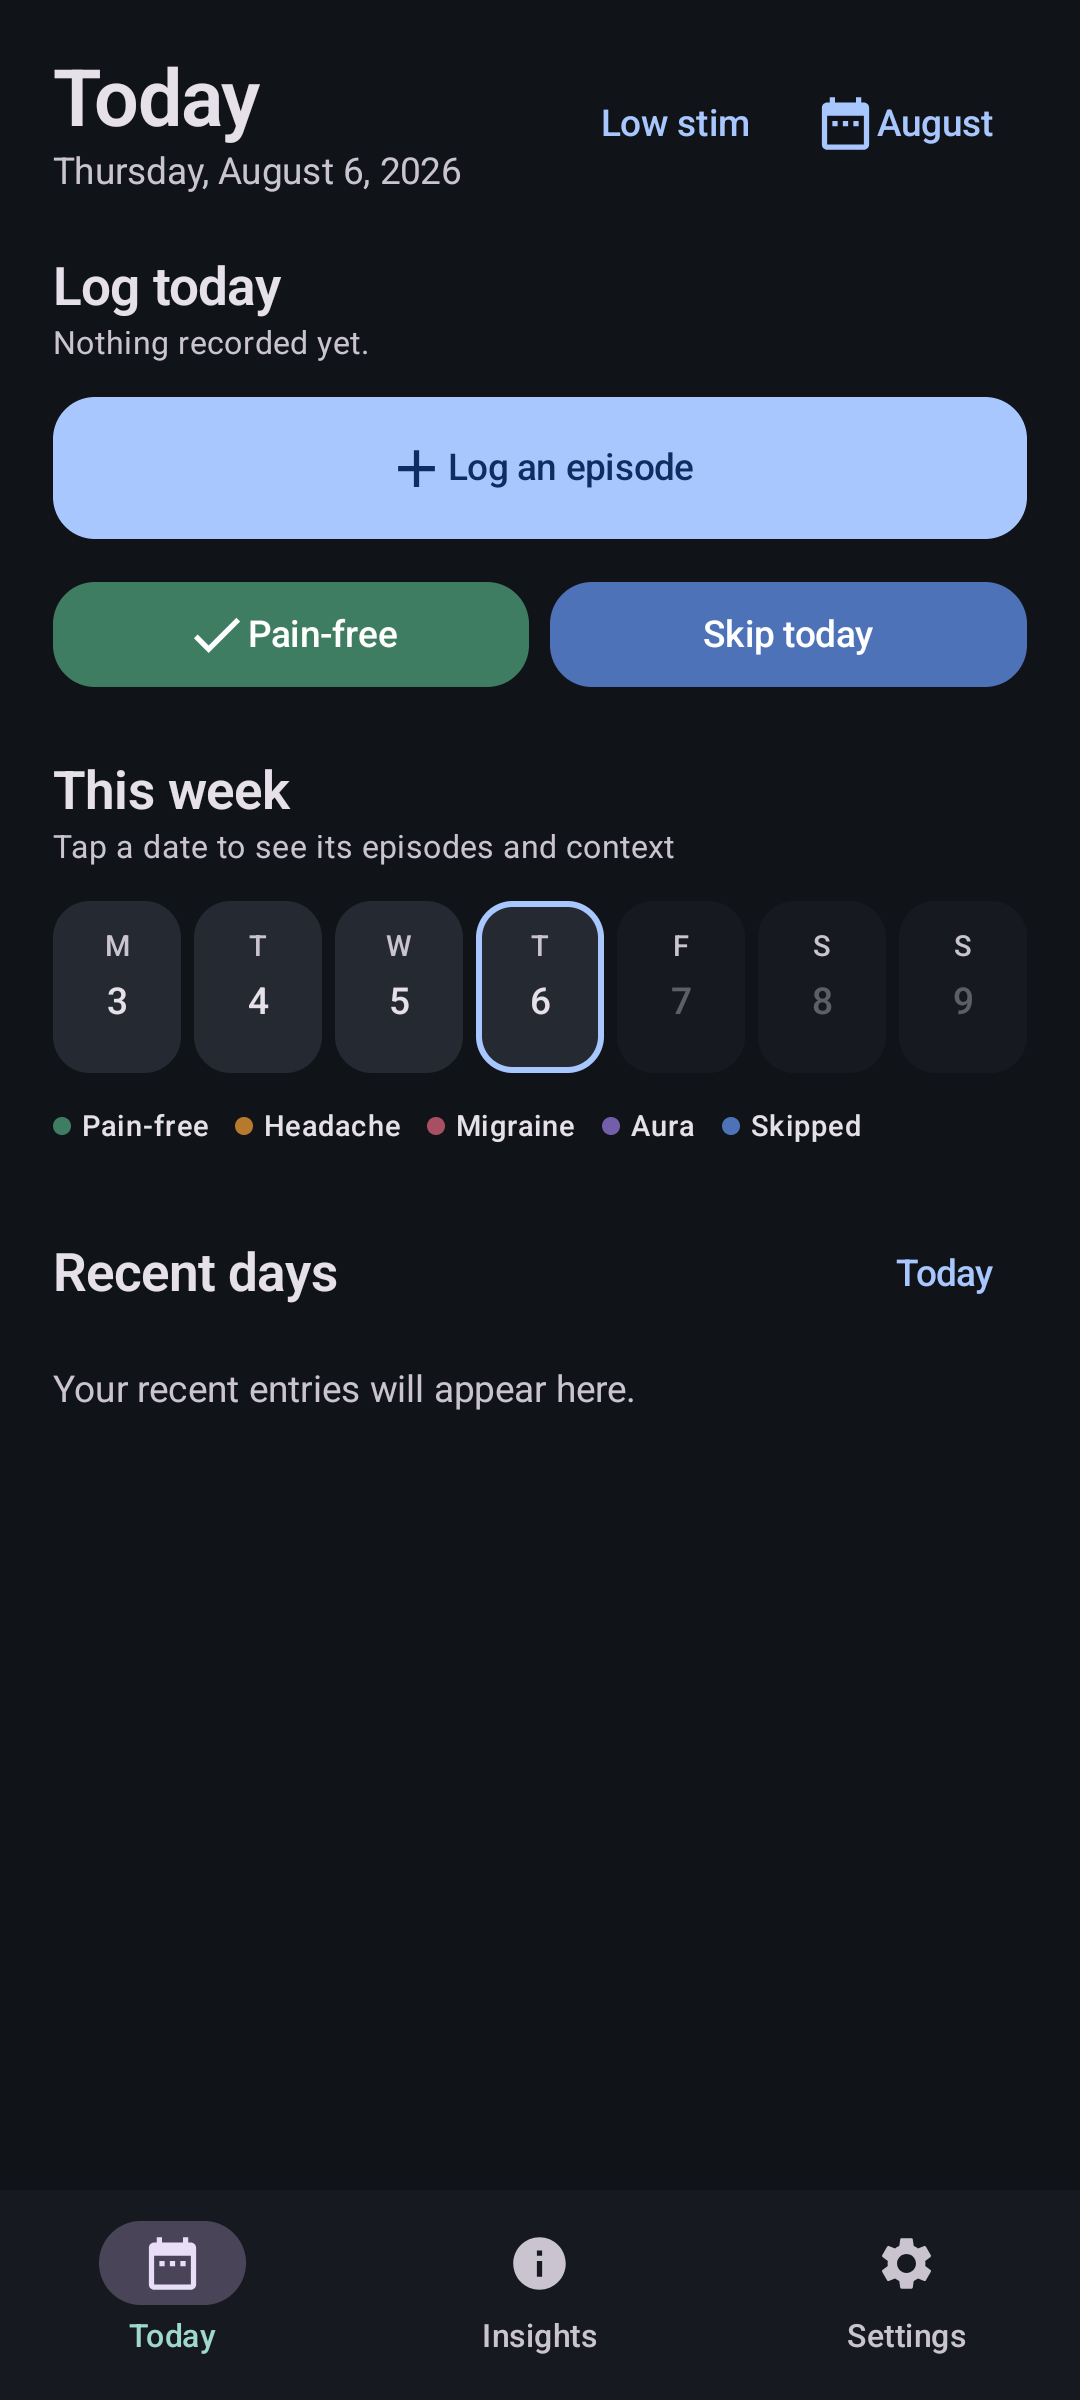
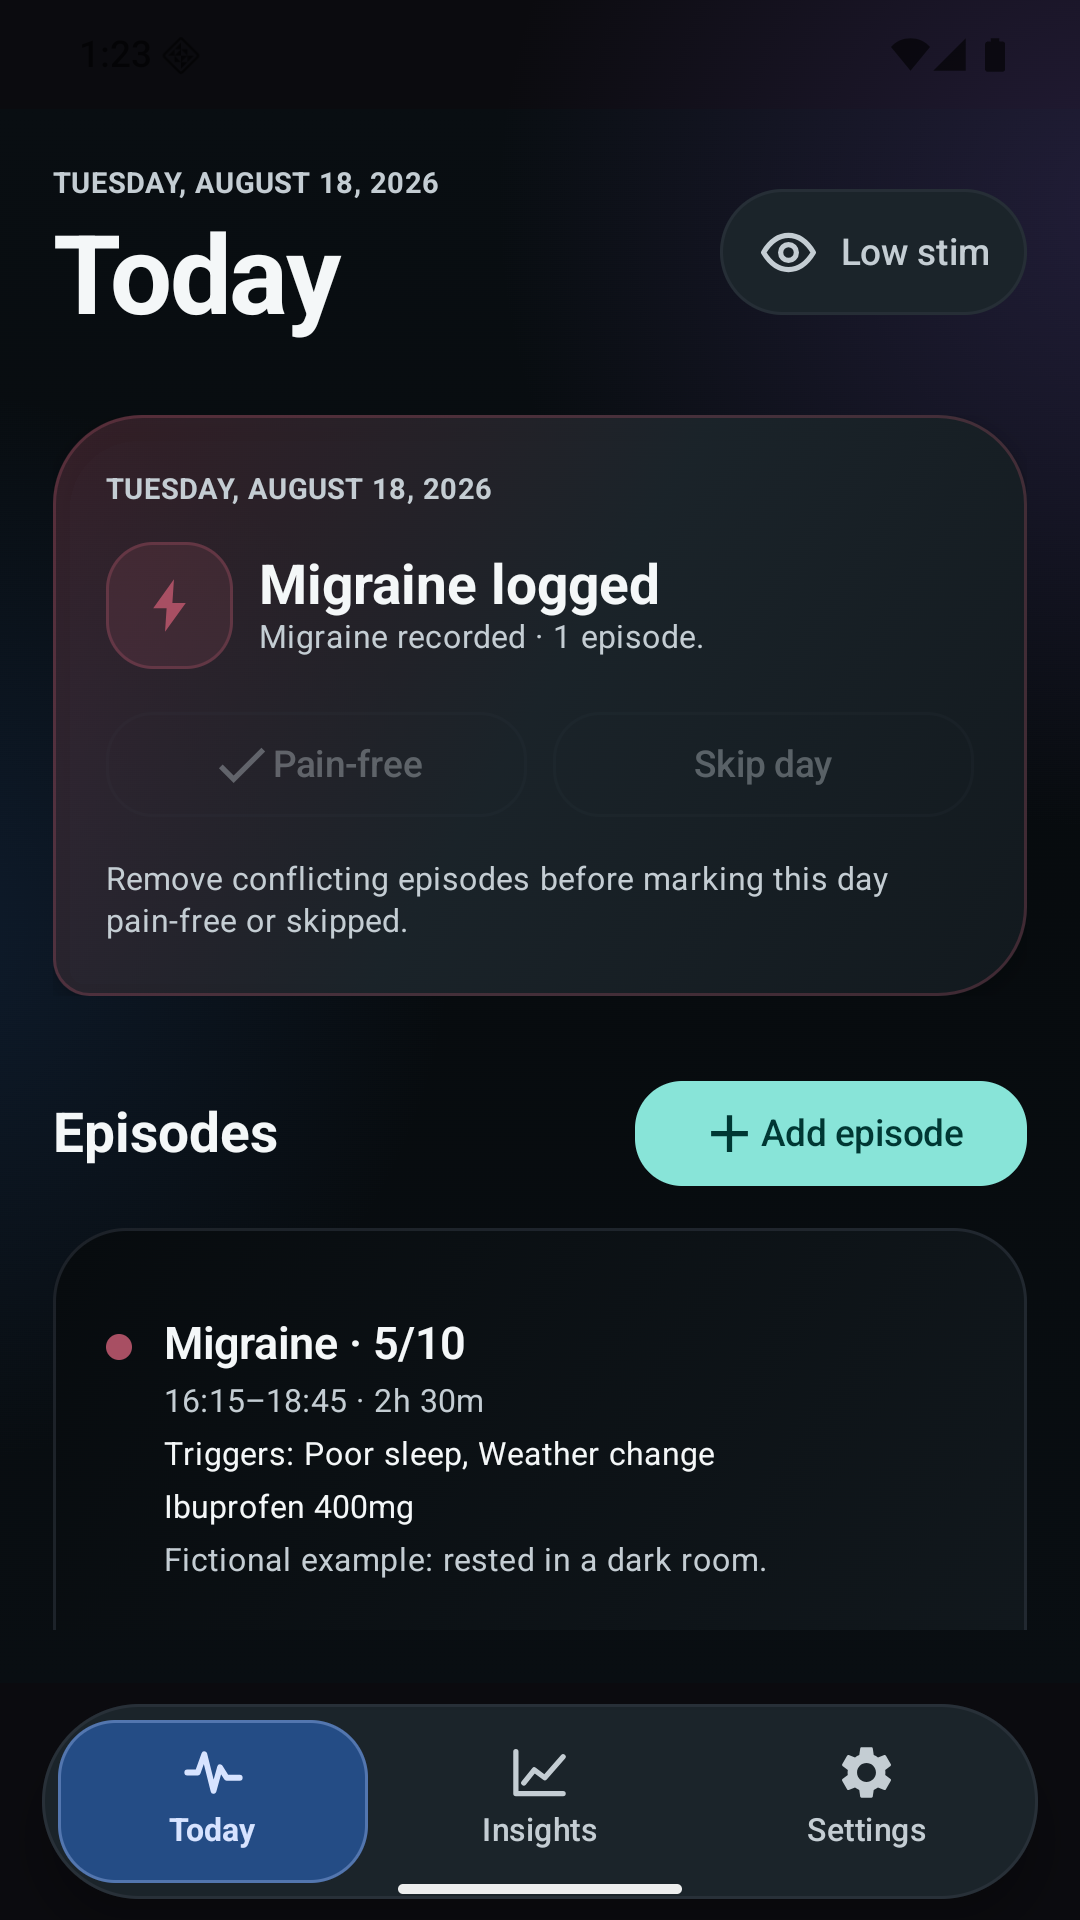
site: refresh Android walkthrough

diff --git a/site/in-action/index.html b/site/in-action/index.html
@@ -3,7 +3,7 @@
 <head>
   <meta charset="utf-8">
   <meta name="viewport" content="width=device-width, initial-scale=1">
-  <meta name="description" content="See how Headmon makes it quick to log headache and migraine episodes, add context and notice patterns on Android and iOS.">
+  <meta name="description" content="See how Headmon makes it quick to log headache and migraine episodes, notice patterns, and create private reports and exports on Android and iOS.">
   <meta name="theme-color" content="#147d70">
   <title>Headmon in action</title>
   <link rel="icon" href="/assets/headmon-icon.png">
@@ -60,17 +60,18 @@
       <div class="workflow-copy">
         <span class="platform-pill platform-pill-android">Android</span>
         <p class="eyebrow">The same diary, at home on Android</p>
-        <h2 id="workflow-android-today">Quick entry without changing platforms</h2>
+        <h2 id="workflow-android-today">A calmer overview when light is unwelcome</h2>
         <p>
-          Android remains a first-class Headmon app. It keeps the established workflow and
-          branding while sharing portable diary definitions with iOS.
+          Headmon 4.0 brings the diary, quick day states and episode timeline into a focused
+          Android experience. Low-stimulation mode stays close when even the normal dark theme
+          feels like too much.
         </p>
       </div>
       <figure class="screen-figure">
         <div class="phone-shell phone-shell-android">
-          <img class="theme-screenshot" src="/assets/screens/android-today-dark.png" data-dark-src="/assets/screens/android-today-dark.png" data-light-src="/assets/screens/android-today-light.png" loading="lazy" width="1080" height="2400" alt="Headmon main diary screen on Android">
+          <img src="/assets/screens/android-today-dark.png" loading="lazy" width="1080" height="1920" alt="Headmon 4.0 Today screen on Android with a fictional migraine episode and low-stimulation control">
         </div>
-        <figcaption>The native Android diary view.</figcaption>
+        <figcaption>The redesigned Headmon 4.0 Today view on Android.</figcaption>
       </figure>
     </section>
 
@@ -80,15 +81,16 @@
         <p class="eyebrow">Fast when it needs to be</p>
         <h2 id="workflow-log">Log the episode, then move on</h2>
         <p>
-          Start with the essentials. Pain, migraine symptoms, medicine and triggers can be added
-          in the same flow, without forcing every field to be filled.
+          Start with the essentials, then add timing, symptoms, medicine, triggers and notes only
+          when they are useful. Existing episodes remain editable without turning the diary into
+          a form-filling exercise.
         </p>
       </div>
       <figure class="screen-figure">
         <div class="phone-shell phone-shell-android">
-          <img class="theme-screenshot" src="/assets/screens/android-log-dark.png" data-dark-src="/assets/screens/android-log-dark.png" data-light-src="/assets/screens/android-log-light.png" loading="lazy" width="1080" height="2400" alt="Headmon episode logging screen on Android with fictional information">
+          <img src="/assets/screens/android-log-dark.png" loading="lazy" width="1080" height="1920" alt="Headmon 4.0 episode editor on Android showing a fictional migraine with moderate pain">
         </div>
-        <figcaption>Episode logging on Android.</figcaption>
+        <figcaption>The Headmon 4.0 episode editor on Android.</figcaption>
       </figure>
     </section>
 
@@ -125,6 +127,25 @@
           <img class="theme-screenshot" src="/assets/screens/ios-insights-dark.png" data-dark-src="/assets/screens/ios-insights-dark.png" data-light-src="/assets/screens/ios-insights-light.png" loading="lazy" width="660" height="1434" alt="Headmon Insights screen on iOS showing fictional streak and pattern summaries">
         </div>
         <figcaption>On-device Insights with fictional data.</figcaption>
+      </figure>
+    </section>
+
+    <section class="workflow workflow-reverse" aria-labelledby="workflow-reports">
+      <div class="workflow-copy">
+        <span class="platform-pill platform-pill-android">Android</span>
+        <p class="eyebrow">Useful outside the app</p>
+        <h2 id="workflow-reports">Prepare a report without giving up control</h2>
+        <p>
+          Create a doctor-focused PDF, a MIDAS / HIT-7 self-assessment PDF, or diary rows for a
+          spreadsheet. Headmon builds each export on the device and lets you decide whether to
+          save it, share it or leave it there.
+        </p>
+      </div>
+      <figure class="screen-figure">
+        <div class="phone-shell phone-shell-android">
+          <img src="/assets/screens/android-reports-dark.png" loading="lazy" width="1080" height="1920" alt="Headmon 4.0 Reports screen on Android with doctor PDF, self-assessment PDF and CSV export options">
+        </div>
+        <figcaption>Private report and spreadsheet exports on Android.</figcaption>
       </figure>
     </section>
 
